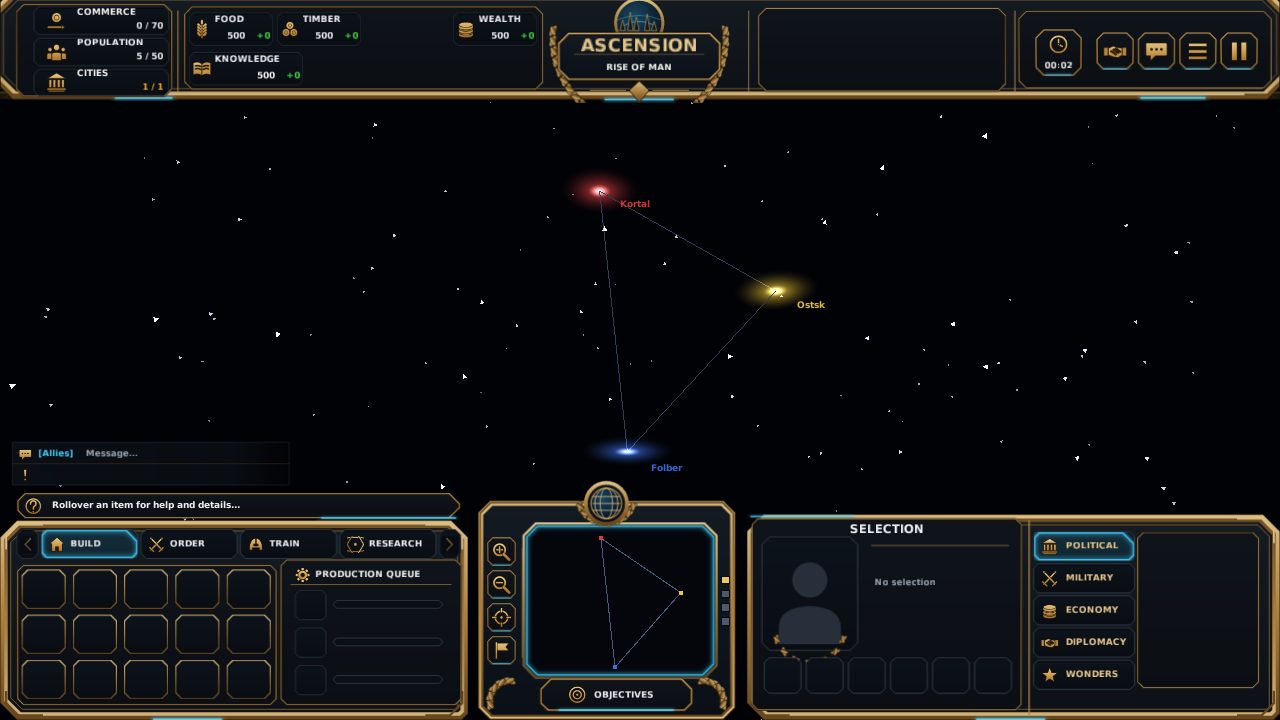
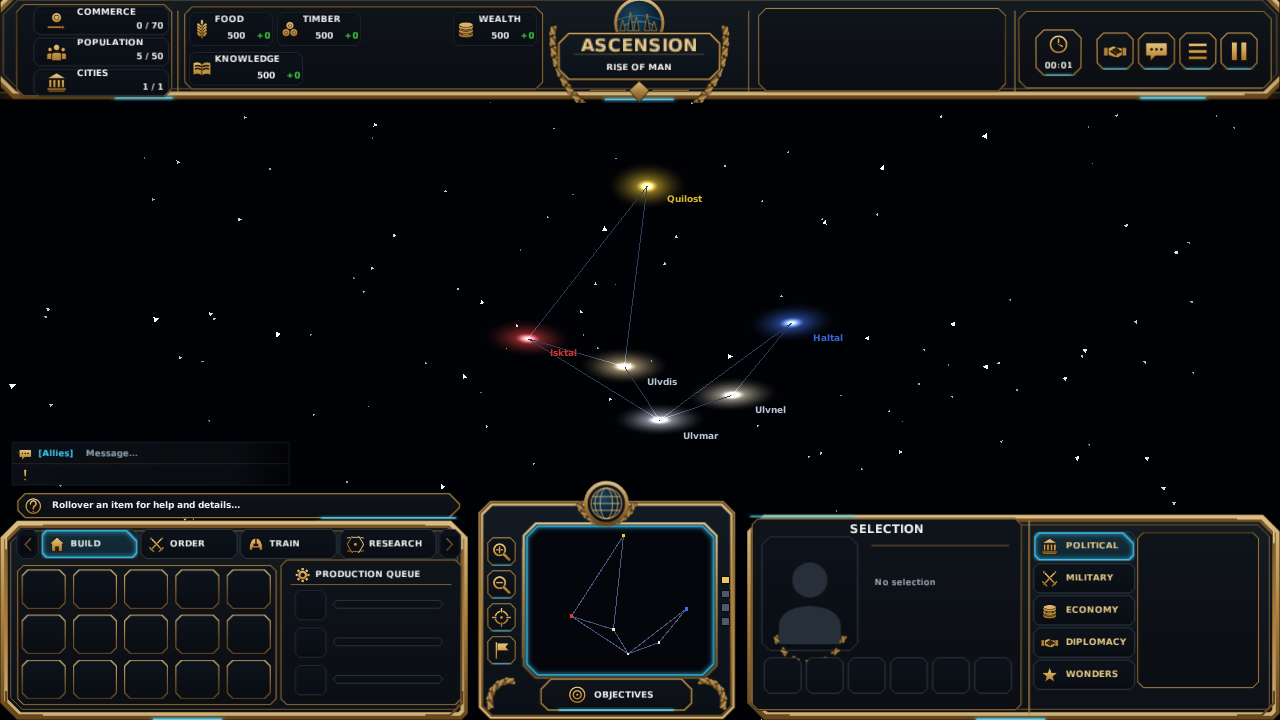
Default universe mode to the roomiest map style; version 0.0.27
Universe mode used the first map style, which has no neutral systems,
so the star map showed only the home systems. Without --style it now
picks the style allowing the most neutral systems, chosen by data.

diff --git a/app/crates/rom-app/src/terrain.rs b/app/crates/rom-app/src/terrain.rs
@@ -126,9 +126,28 @@ pub struct UniverseContent {
     pub factions: Vec<DefId>,
 }
 
+/// The map style a universe match uses when none is given: the one that allows the most neutral
+/// star systems (ties: lowest id), so the star map has somewhere to expand to. Chosen by data.
+fn universe_default_style(rules: &Rules) -> Option<DefId> {
+    rules
+        .map_styles
+        .values()
+        .max_by(|a, b| {
+            a.neutral_systems_max
+                .cmp(&b.neutral_systems_max)
+                .then(b.id.cmp(&a.id))
+        })
+        .map(|style| style.id)
+}
+
 /// Generates the universe for the options' style, seed and factions.
 pub fn generate_universe_content(options: &Options) -> Result<UniverseContent, String> {
-    let (rules, style, factions) = resolve(options)?;
+    let (rules, mut style, factions) = resolve(options)?;
+    if options.style.is_none()
+        && let Some(roomiest) = universe_default_style(&rules)
+    {
+        style = roomiest;
+    }
     let universe = generate_universe(
         &rules,
         &UniverseRequest {

diff --git a/app/docs/tasks/STATUS.md b/app/docs/tasks/STATUS.md
@@ -28,7 +28,7 @@ it; nothing needed to continue lives only in a chat or a temporary folder.
 | 19 — live simulation on the globe | `19-globe-live.md` | `task/19-globe-live` | Sonnet agent | merged in 0.0.25 | Interrupted by the usage limit before any change was saved; resumed and done from the start. Gate re-run by the orchestrator: 410 tests; screenshots inspected. Fog of war rendered far too dark (planet almost black from orbit, contrary to the world model) — fixed by the orchestrator in 0.0.26. Not verified: live mouse input on the globe; flat-map fog has no screenshot. Simulation API gaps listed in the report (city placement helper, bulk visibility query, face-aware averaging). |
 | 20 — universe data and generation: star systems, bodies, routes (world model step 4a) | `20-universe-gen.md` | `task/20-universe-gen` | Opus agent | merged in 0.0.24 | Interrupted by the usage limit before any change was saved; resumed and done from the start. Gate re-run by the orchestrator on main: 399 tests; universe identical on repeat (1.3 s), fair on other seeds and on the one-world style; star map inspected (`app/docs/img/universe-starmap.png`). Non-home habitable planets are generated on demand (`Universe::expand`). Schema: `star_system`, `body`, `route` replace `map_region`; entities carry `body_id` + `face`. |
 | 21 — one world, several planets (step 4b, part 1) | `21-multi-body-world.md` | `task/21-multi-body-world` | Opus agent | running | worktree `../rise-of-man-worktrees/21-multi-body-world` |
-| 22 — continuous zoom: globe, star system, star map (step 5) | `22-continuous-zoom.md` | `task/22-continuous-zoom` | Sonnet agent | running | worktree `../rise-of-man-worktrees/22-continuous-zoom` |
+| 22 — continuous zoom: globe, star system, star map (step 5) | `22-continuous-zoom.md` | `task/22-continuous-zoom` | Sonnet agent | merged in 0.0.27 | Interrupted by the weekly limit, resumed. Gate re-run by the orchestrator on main: 426 tests; screenshots inspected (globe, system, star map, cap); 55–57 fps per level on a loaded machine (the agent measured 45–52 under heavier load). Review fix: universe mode defaulted to the first map style (no neutral systems); it now picks the style allowing the most neutral systems, by data. Not verified: wheel zoom, cross-fades and double-click flights live. |
 | 23 — forests, mountains and sites at planet scale | `23-planet-biomes.md` | `task/23-planet-biomes` | Codex (`gpt-6.1-sol`, high) | running | worktree `../rise-of-man-worktrees/23-planet-biomes`; orchestrator commits |
 | (next) orbit, system space, launch/land, presence claims, route travel (step 4b, part 2); victory and city capture; computer opponent; simulation API gaps (rally, cancel one order, patrol) | — | — | — | planned | after 21 |
 
